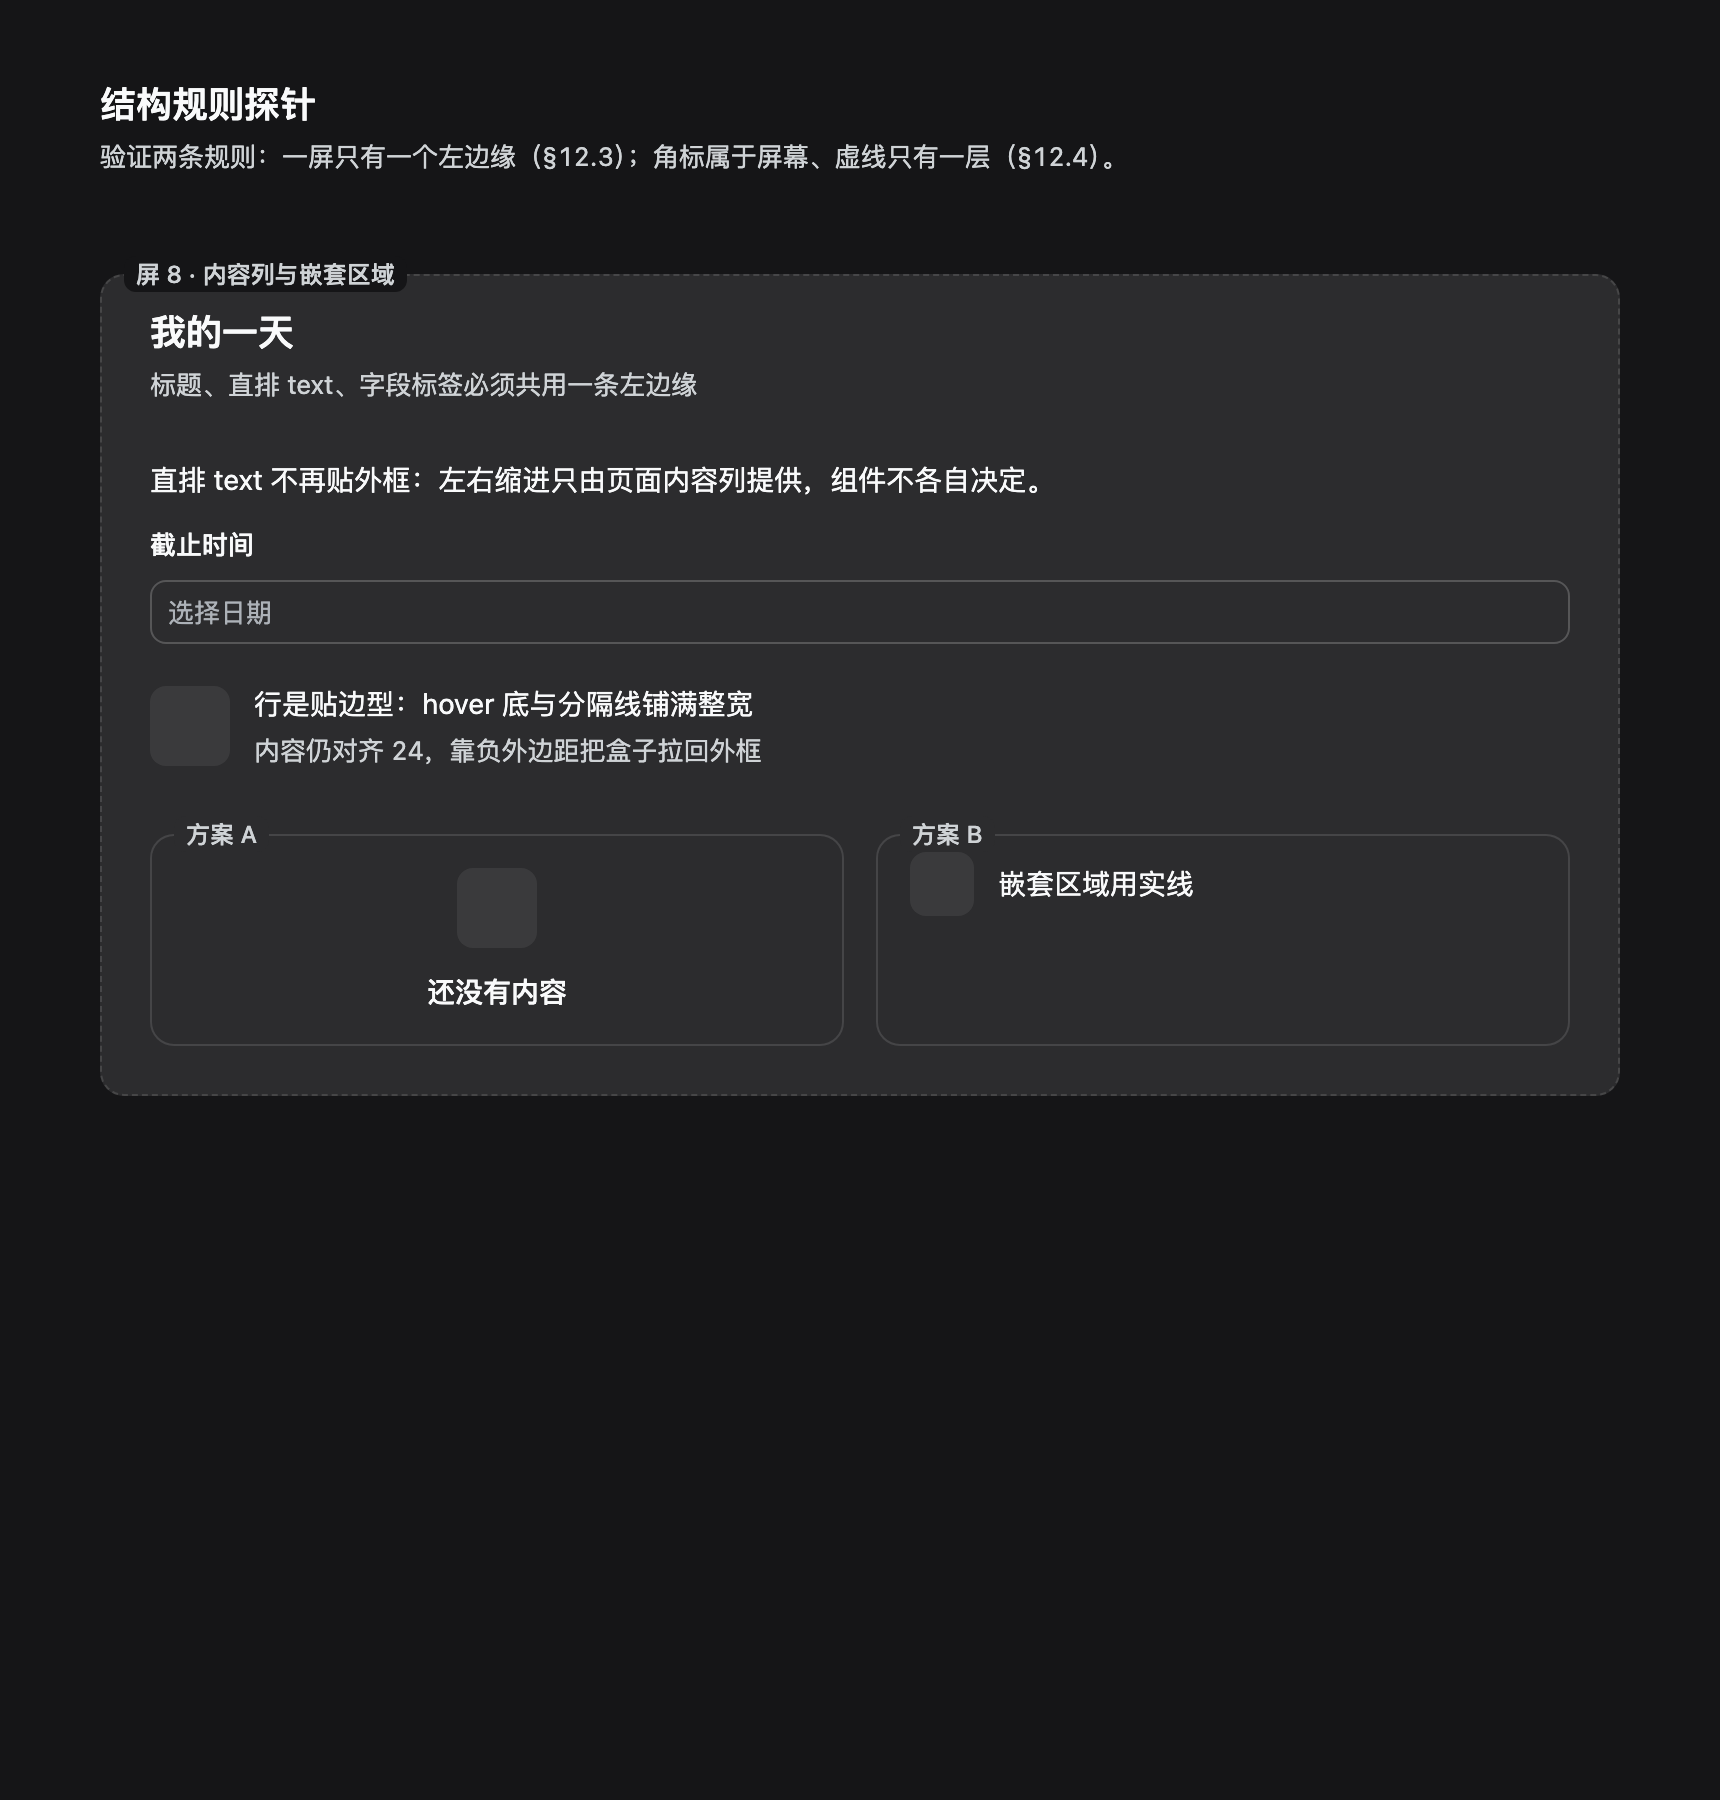
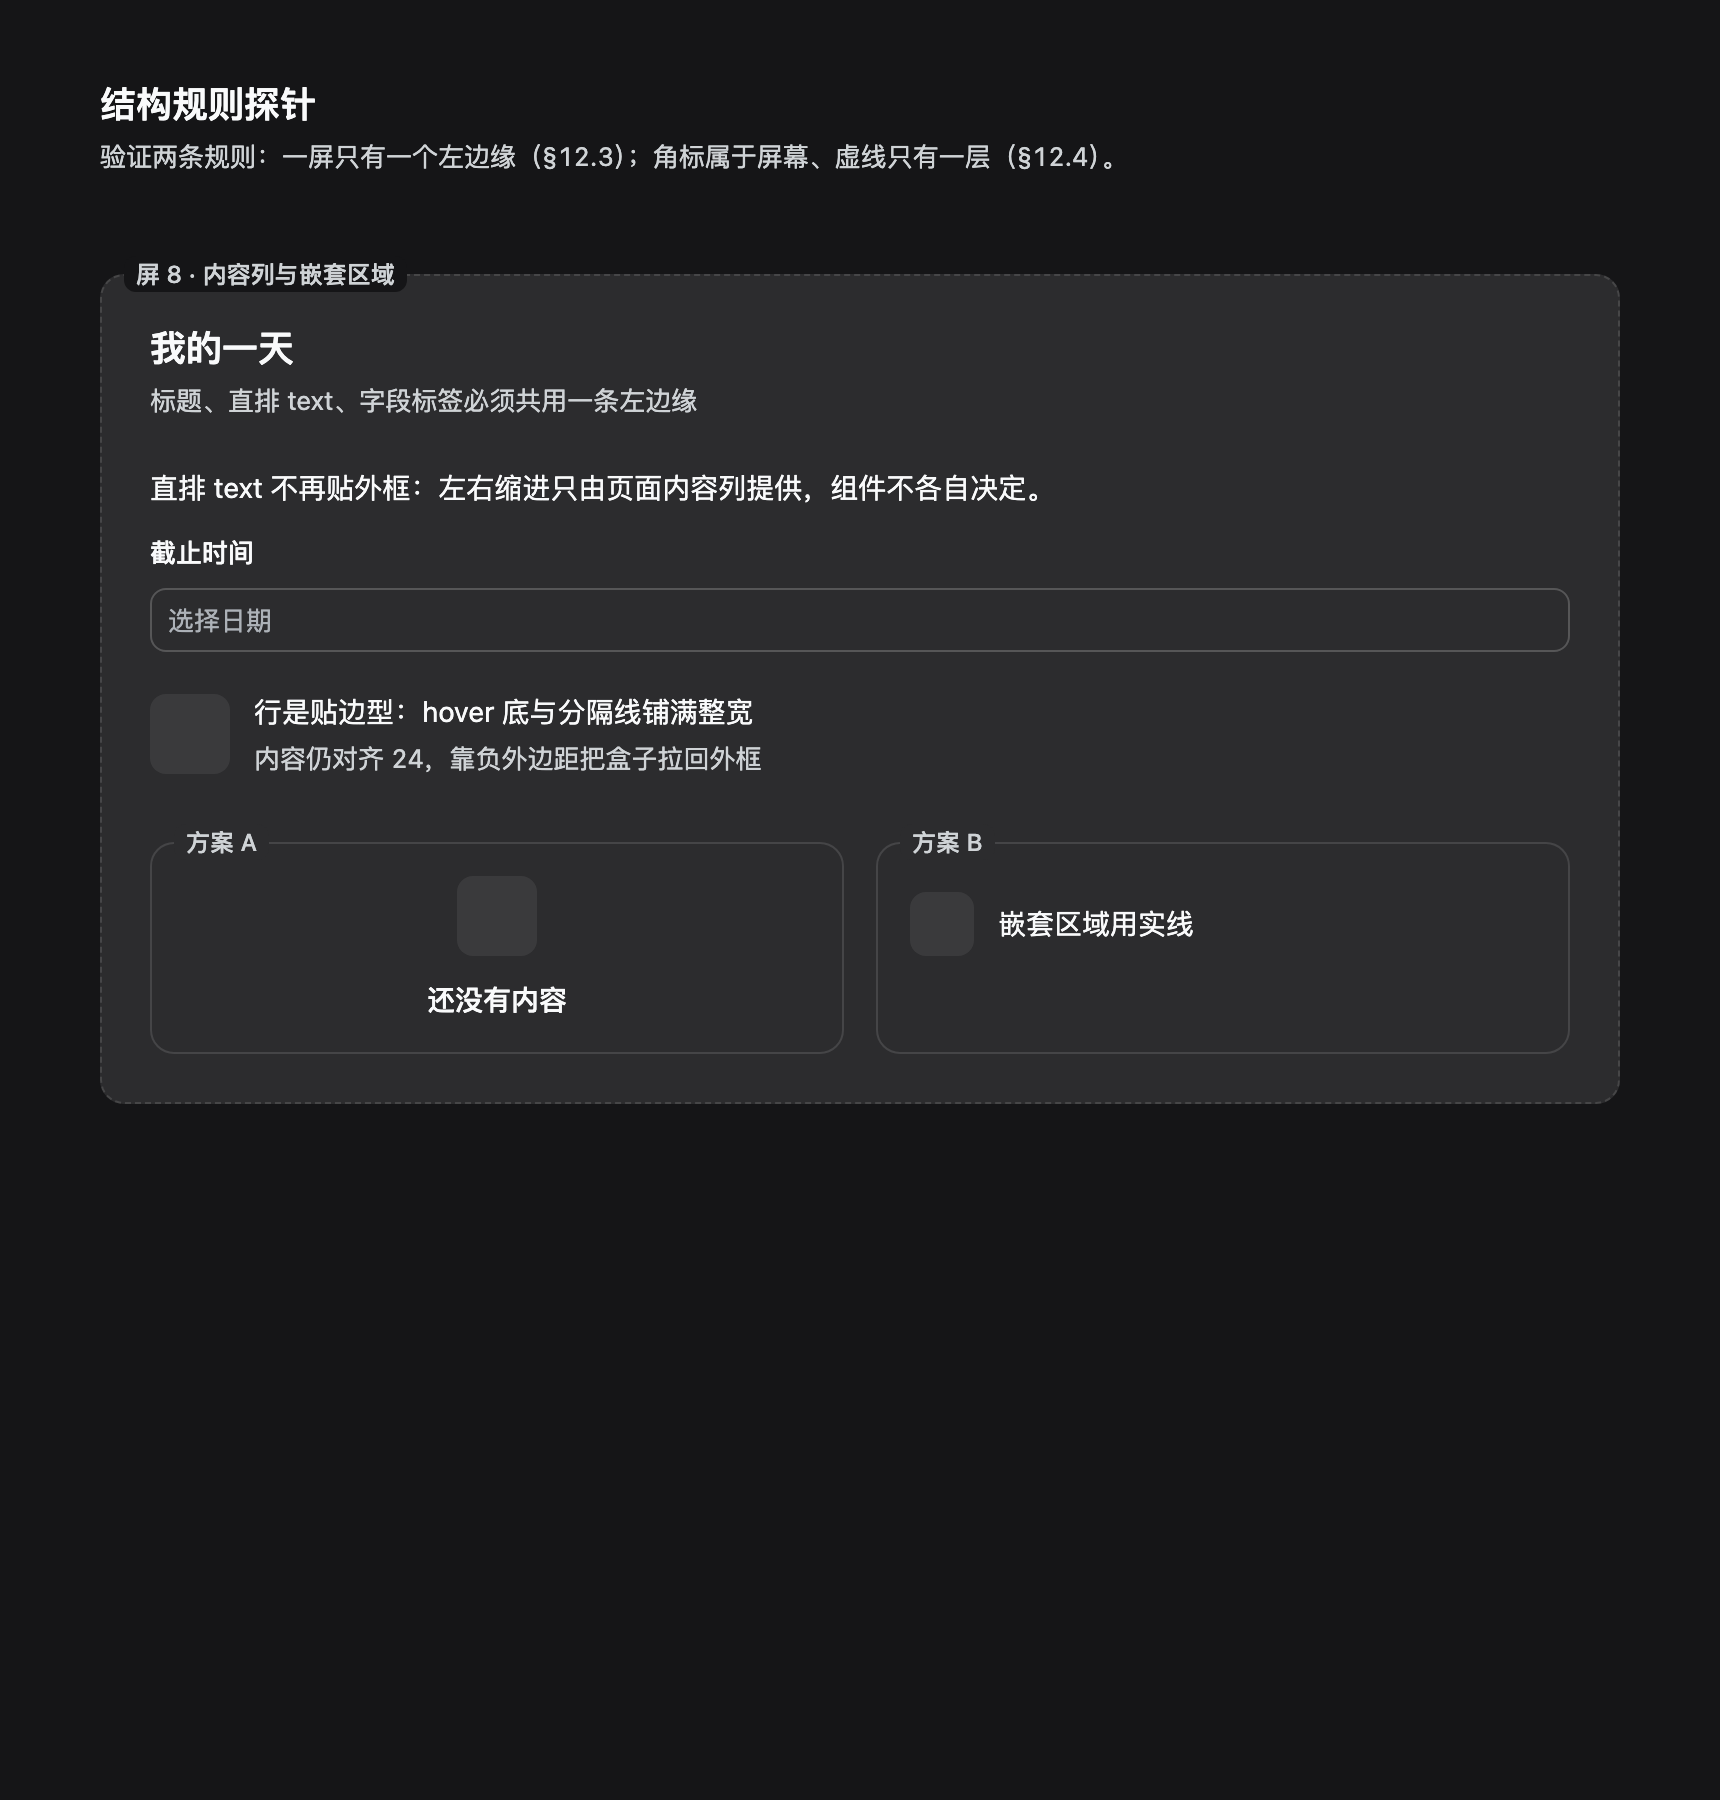
test(gen-ui): 探针跟四向 gutter 与方向串 bleed，重出结构基线
本轮基线对应实现提交 e32e3c5。

- --proto-pad-x 更名 --proto-gutter，14 处 + prototype.html 内联样式 1 处
  漏改会让操作区内边距归零，扫描时才暴露；旧名全仓仅剩码匠守卫断言
- structures.html 的 .pr-page-body 改四向 padding；页头上 G 左右 G 下 0，
  让「标题 → 首内容」严格等于 G，而不是 2G
- data-bleed 布尔改方向串（2 处标记 + 1 处选择器），block-start 带
  「无标题栏」前置条件；empty/loading 的兜底 padding 全清零，避免与
  pageBody 相加
- 补首/末子元素外边距抑制：否则页头底 → 首内容会变成 G + 12 = 36
- 宽窄两档实测 G6 = G（24/16）、单一左边缘相等、rows 贴框内沿 1px、
  页底到末内容 = G + 边框
- prototype-rules-* 四张重拍后最大差值 1/255（骨架屏脉冲相位），未入库

diff --git a/plugins/vt-gen-ui/tools/visual/prototype.css b/plugins/vt-gen-ui/tools/visual/prototype.css
@@ -29,7 +29,7 @@
   --proto-fill-placeholder: color-mix(in srgb, var(--dsw-alias-label-primary) 7%, transparent);
   /* 遮罩直接吃宿主：浅 24% / 深 50%，宿主已按主题分档 */
   --proto-scrim: var(--dsw-alias-bg-mask-1);
-  --proto-pad-x: 24px;
+  --proto-gutter: 24px;
   --proto-radius-page: var(--dsl-g-radius-surface);   /* 12 */
   --proto-radius-control: var(--dsl-g-radius-control); /* 8 */
   --proto-radius-sm: var(--dsl-g-radius-sm);           /* 6 */
@@ -72,7 +72,7 @@
 /* ── nav ── */
 .pr-nav { display: flex; align-items: center; gap: 8px; }
 .pr-nav--top {
-  height: 48px; padding: 0 var(--proto-pad-x);
+  height: 48px; padding: 0 var(--proto-gutter);
   border-bottom: 1px solid var(--proto-line-rule);
   overflow-x: auto; overflow-y: hidden;
   scrollbar-width: none;
@@ -128,7 +128,7 @@
 /* ── page header ── */
 .pr-header {
   display: flex; align-items: flex-start; gap: 16px;
-  padding: 16px var(--proto-pad-x);
+  padding: 16px var(--proto-gutter);
 }
 .pr-header__text { flex: 1 1 auto; min-width: 0; }
 .pr-title { margin: 0; font-size: 18px; line-height: 24px; font-weight: 600; }
@@ -159,7 +159,7 @@
 .pr-rows { display: flex; flex-direction: column; }
 .pr-row {
   display: flex; align-items: center; gap: 12px;
-  min-height: 56px; padding: 8px var(--proto-pad-x);
+  min-height: 56px; padding: 8px var(--proto-gutter);
   border-top: 1px solid var(--proto-line-rule);
   text-align: left; width: 100%; background: transparent; border-inline: 0; border-bottom: 0;
   color: inherit; cursor: pointer;
@@ -206,7 +206,7 @@
 .pr-ph-line--100 { width: 100%; }
 .pr-ph-line--72 { width: 72%; }
 .pr-ph-line--56 { width: 56%; }
-.pr-section { padding: 16px var(--proto-pad-x); border-top: 1px solid var(--proto-line-rule); }
+.pr-section { padding: 16px var(--proto-gutter); border-top: 1px solid var(--proto-line-rule); }
 .pr-section__head {
   display: flex; align-items: baseline; gap: 8px; margin-bottom: 12px;
 }
@@ -216,7 +216,7 @@
 .pr-wire .pr-ph-box { width: 96px; height: 64px; flex: 0 0 auto; }
 
 /* ── field-group ── */
-.pr-form { display: flex; flex-direction: column; gap: 16px; padding: 16px var(--proto-pad-x); }
+.pr-form { display: flex; flex-direction: column; gap: 16px; padding: 16px var(--proto-gutter); }
 .pr-field { display: flex; flex-direction: column; }
 .pr-field__label { margin-bottom: 8px; font-size: 13px; line-height: 20px; font-weight: 500; }
 .pr-field__input {
@@ -238,7 +238,7 @@
 /* ── empty / loading ──（都是真实状态：没有整块虚线，只有内容槽是占位） */
 .pr-empty {
   display: flex; flex-direction: column; align-items: center; text-align: center;
-  gap: 8px; padding: 24px var(--proto-pad-x);
+  gap: 8px; padding: 24px var(--proto-gutter);
 }
 .pr-empty__graphic {
   width: 40px; height: 40px; margin-bottom: 4px;
@@ -250,7 +250,7 @@
 .pr-empty .pr-btn { margin-top: 8px; }
 
 .pr-skel { display: flex; flex-direction: column; gap: 8px; }
-.pr-skel__row { display: flex; align-items: center; gap: 12px; padding: 8px var(--proto-pad-x); }
+.pr-skel__row { display: flex; align-items: center; gap: 12px; padding: 8px var(--proto-gutter); }
 .pr-skel__media { width: 40px; height: 40px; flex: 0 0 auto; border-radius: var(--proto-radius-control); background: var(--proto-fill-placeholder); }
 .pr-skel__lines { flex: 1 1 auto; display: flex; flex-direction: column; gap: 8px; }
 .pr-skel__line { height: 12px; border-radius: var(--proto-radius-sm); background: var(--proto-fill-placeholder); }
@@ -284,7 +284,7 @@
   .pr-split > * { flex-grow: 0; }
 }
 @container proto-page (max-width: 600px) {
-  .pr-page > * { --proto-pad-x: 16px; }
+  .pr-page > * { --proto-gutter: 16px; }
   .pr-header { gap: 12px; }
   /* 弹层只收缩内边距，形态与居中不变 */
   .pr-dialog { padding: 16px; }
@@ -324,7 +324,7 @@
 
 .pr-sheet {
   width: 100%;
-  padding: 16px var(--proto-pad-x) 24px;
+  padding: 16px var(--proto-gutter) 24px;
   border-radius: var(--proto-radius-page) var(--proto-radius-page) 0 0;
   background: var(--proto-surface-float);
   box-shadow: var(--dsl-g-shadow-float);
@@ -346,13 +346,13 @@
 /* ── 侧栏独立成块：一块缩进对齐内容的内嵌面，不是贴边的"栏" ── */
 .pr-nav--side.pr-nav--block {
   width: 200px; max-width: 100%;
-  margin: 16px var(--proto-pad-x) 0;
+  margin: 16px var(--proto-gutter) 0;
   border: 1px solid var(--proto-line-frame);
   border-radius: var(--proto-radius-control);
 }
 
 /* ── 骨架节奏：块内相邻文本条宽度必须不同 ── */
-.pr-skel--block { padding: 16px var(--proto-pad-x); }
+.pr-skel--block { padding: 16px var(--proto-gutter); }
 
 /* ── split 可选分隔线：仅并排时出现，堆叠即移除 ── */
 .pr-split[data-divider="true"] { gap: 0; }

diff --git a/plugins/vt-gen-ui/tools/visual/structures.html b/plugins/vt-gen-ui/tools/visual/structures.html
@@ -13,18 +13,32 @@
 <style>
 /* 结构规则专用（§12.3 / §12.4）。基础组件样式在 prototype.css，不要在这里重复。 */
 /* ── 规则 A：内容列只有一个左边缘（§12.3） ── */
-.pr-page-body { padding-inline: var(--proto-pad-x); }
-.pr-page-body > [data-bleed="true"] { margin-inline: calc(-1 * var(--proto-pad-x)); }
+/* 四向留白都取 G：留白只由内容列给，组件不各自决定（§12.3 G1–G6）。 */
+.pr-page-body { padding: var(--proto-gutter); }
+.pr-page-body > [data-bleed~="inline"] { margin-inline: calc(-1 * var(--proto-gutter)); }
+/* 贴边型组件（list-row / nav top / nav tabs）比 inline 多两条前置条件：
+   仅首/末子元素生效；有标题栏时顶部不抵消。这里手写结构按等价语义给出。 */
+.pr-page-body > [data-bleed~="block-end"]:last-child { margin-block-end: calc(-1 * var(--proto-gutter)); }
+/* 顶部抵消只给「没有标题栏」的页面：有标题栏时导航贴的是标题，不是页面框。 */
+.pr-page:not(:has(> .pr-header)) > .pr-page-body > [data-bleed~="block-start"]:first-child {
+  margin-block-start: calc(-1 * var(--proto-gutter));
+}
+/* 内容列的上下留白只由 pageBody 给：首/末子元素自带的外边距不得泄漏进 gutter，
+   否则「页头底 → 首内容」会变成 G + 12 = 36，两档间距又回来了。 */
+.pr-page-body > :first-child { margin-block-start: 0; }
+.pr-page-body > :last-child { margin-block-end: 0; }
+/* 页头：上 G、左右 G、下 0——让「标题 → 首个内容」是 G，不是 2G。 */
+.pr-page > .pr-header { padding: var(--proto-gutter) var(--proto-gutter) 0; }
 .pr-text { margin: 12px 0; font-size: 14px; line-height: 20px; color: var(--dsw-alias-label-primary); }
 
 /* ── 规则 B：只有屏幕画虚线，嵌套区域是实线（§12.4） ── */
 .pr-page--nested { border-style: solid; }
 .pr-frame--nested { margin-top: 0; }
 .pr-split--demo { margin: 16px 0 24px; }
-/* 组件不自带「页面级」水平内边距：缩进由 pageBody 提供（§12.3）。
-   这里只清掉 empty/loading 的兜底值，避免与 pageBody 相加。 */
+/* 组件不自带「页面级」内边距：四向缩进由 pageBody 提供（§12.3）。
+   这里把 empty/loading 的兜底 padding 全清零，避免与 pageBody 相加（24+24=48）。 */
 .pr-page-body > .pr-empty,
-.pr-page-body > .pr-loading { padding-inline: 0; }
+.pr-page-body > .pr-loading { padding: 0; }
 </style>
 </head>
 <body>
@@ -47,7 +61,7 @@
           <label class="pr-field__label">截止时间</label>
           <div class="pr-field__input pr-field__input--placeholder">选择日期</div>
         </div>
-        <div class="pr-rows" data-bleed="true" style="margin-top: 12px;">
+        <div class="pr-rows" data-bleed="inline" style="margin-top: 12px;">
           <div class="pr-row">
             <span class="pr-row__media"></span>
             <span class="pr-row__body">
@@ -61,7 +75,7 @@
             <span class="pr-frame-label">方案 A</span>
             <div class="pr-page pr-page--nested">
               <div class="pr-page-body">
-                <div class="pr-empty" style="padding-top: 16px; padding-bottom: 16px;">
+                <div class="pr-empty">
                   <div class="pr-empty__graphic"></div>
                   <div class="pr-empty__title">还没有内容</div>
                 </div>
@@ -72,7 +86,7 @@
             <span class="pr-frame-label">方案 B</span>
             <div class="pr-page pr-page--nested">
               <div class="pr-page-body">
-                <div class="pr-rows" data-bleed="true">
+                <div class="pr-rows" data-bleed="inline">
                   <div class="pr-row" style="min-height: 40px;">
                     <span class="pr-row__media" style="width: 32px; height: 32px;"></span>
                     <span class="pr-row__body"><span class="pr-row__title">嵌套区域用实线</span></span>

diff --git a/plugins/vt-gen-ui/tools/visual/prototype.html b/plugins/vt-gen-ui/tools/visual/prototype.html
@@ -173,7 +173,7 @@
         </div>
       </div>
 
-      <div class="pr-actions" style="padding: 16px var(--proto-pad-x); border-top: 1px solid var(--proto-line-rule); justify-content: flex-end;">
+      <div class="pr-actions" style="padding: 16px var(--proto-gutter); border-top: 1px solid var(--proto-line-rule); justify-content: flex-end;">
         <button class="pr-btn">取消</button>
         <button class="pr-btn pr-btn--primary">创建</button>
       </div>
